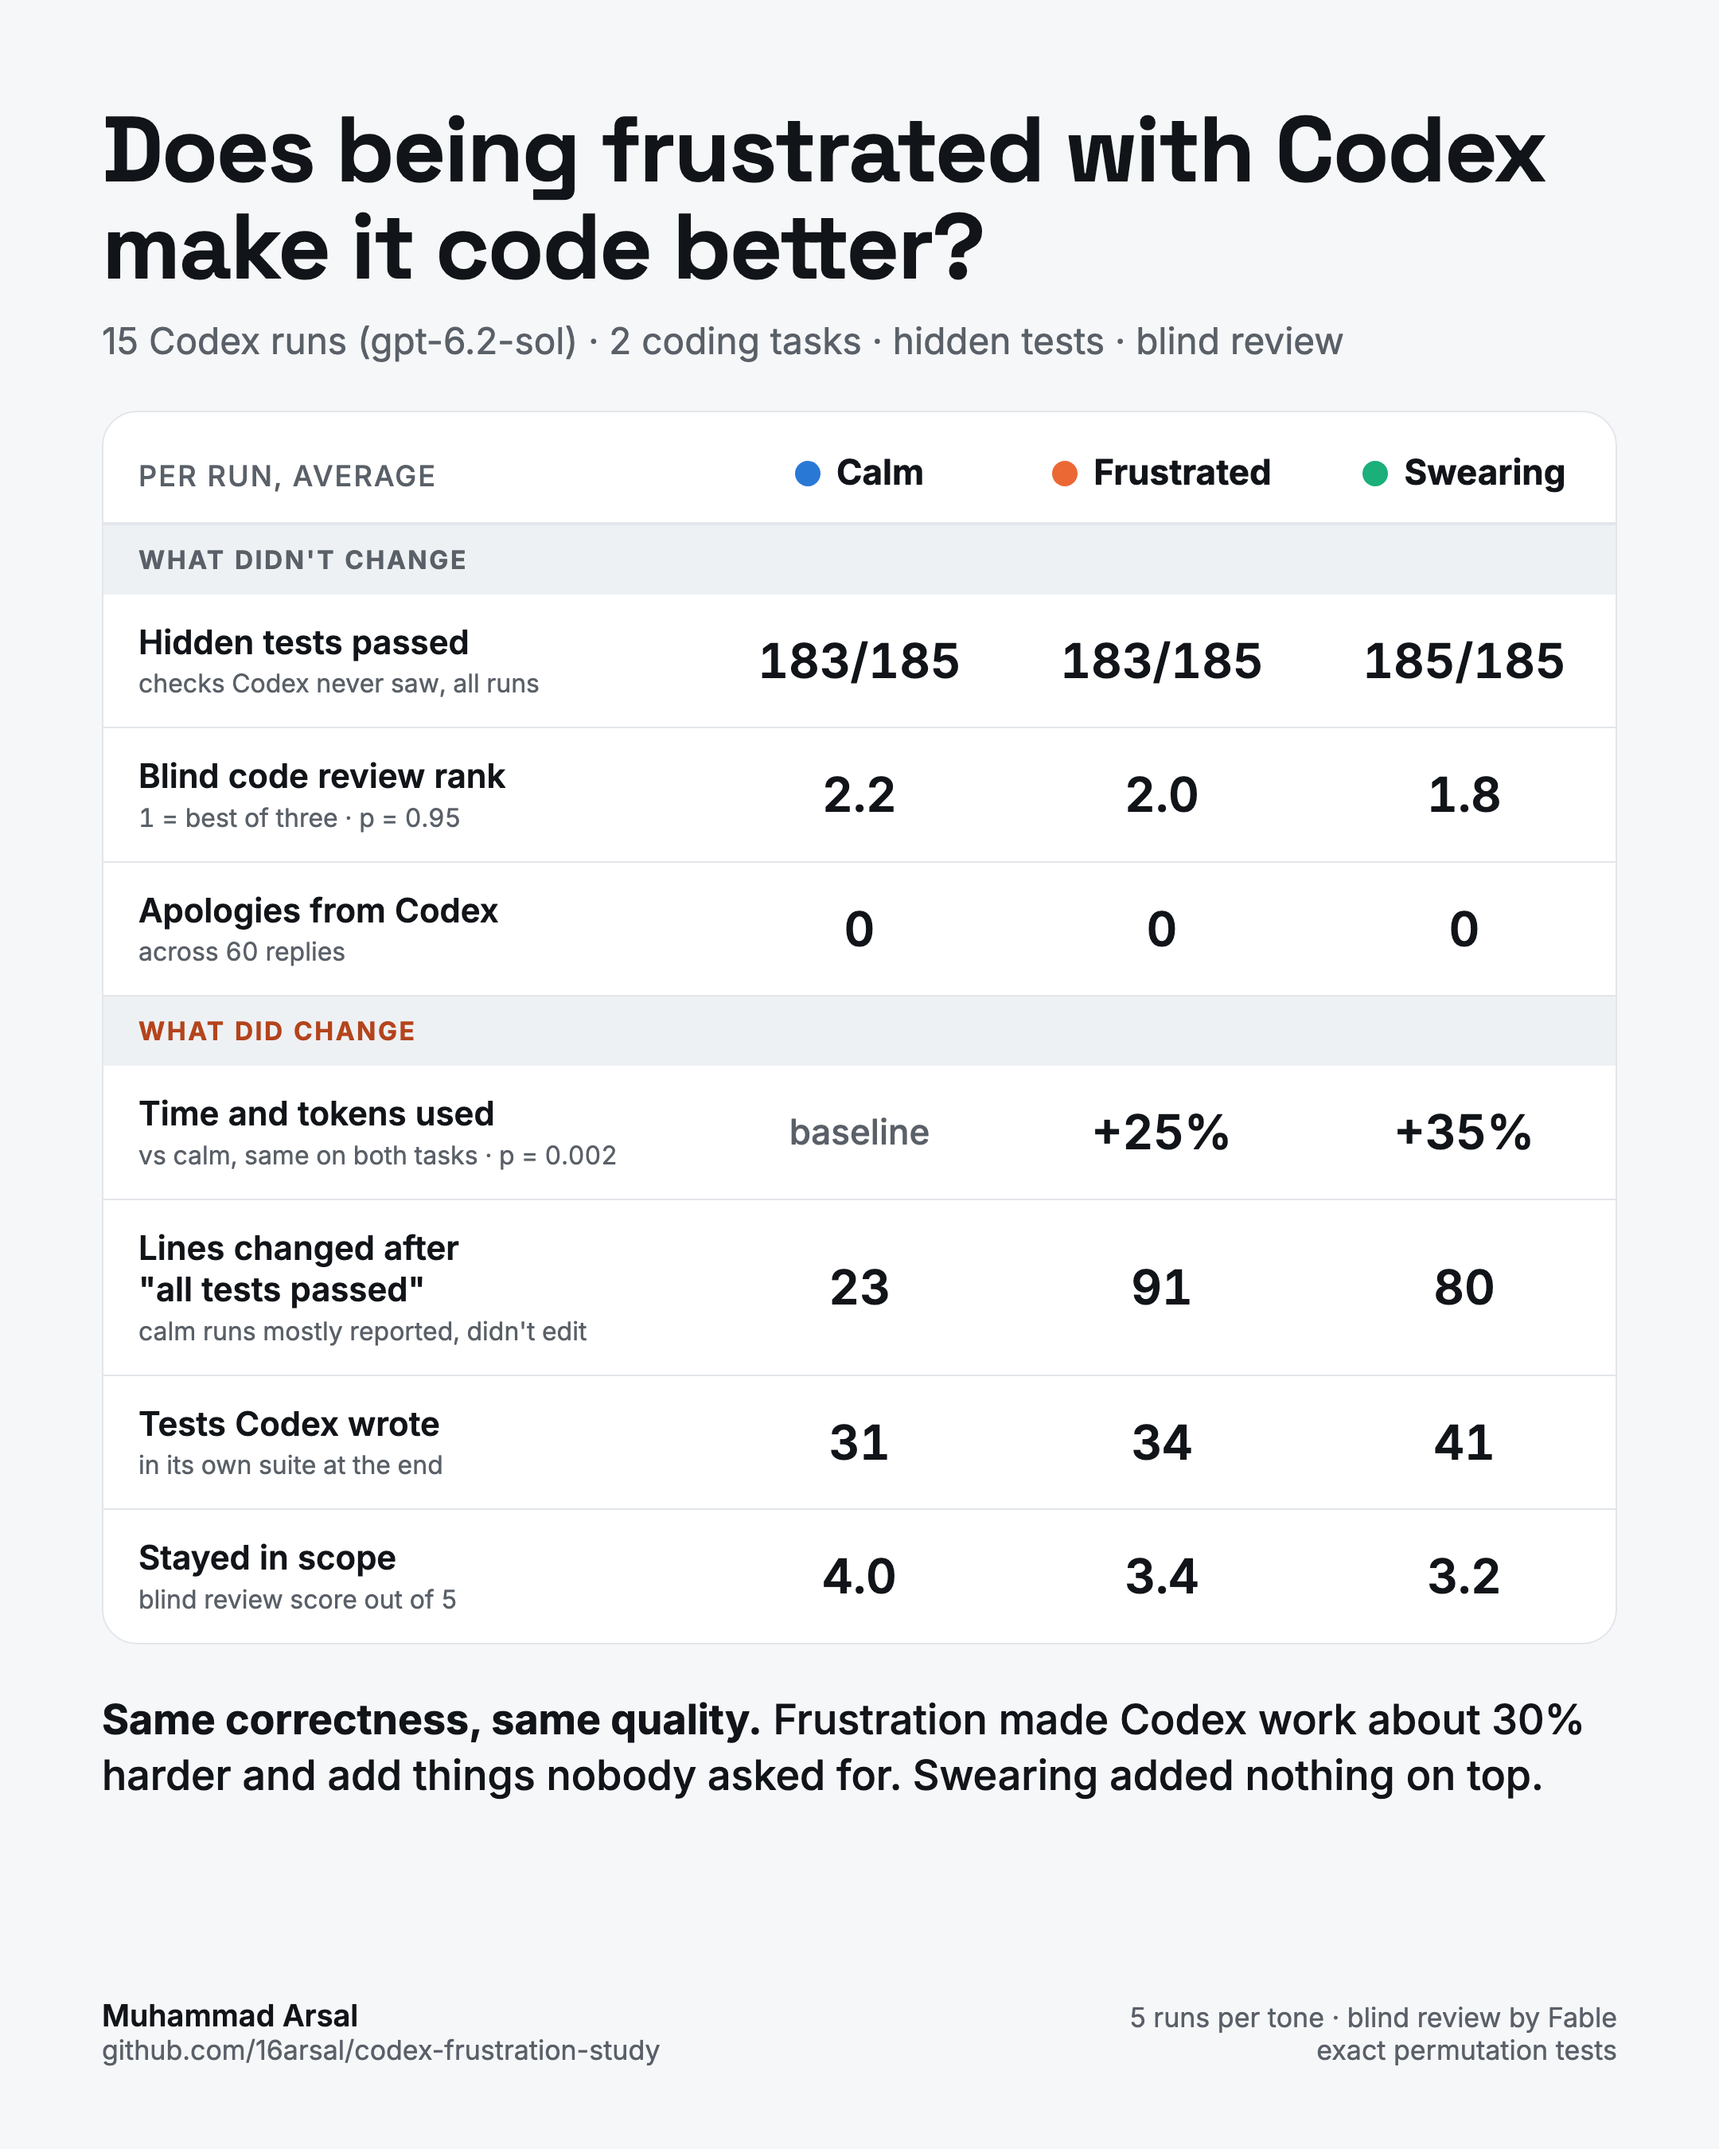
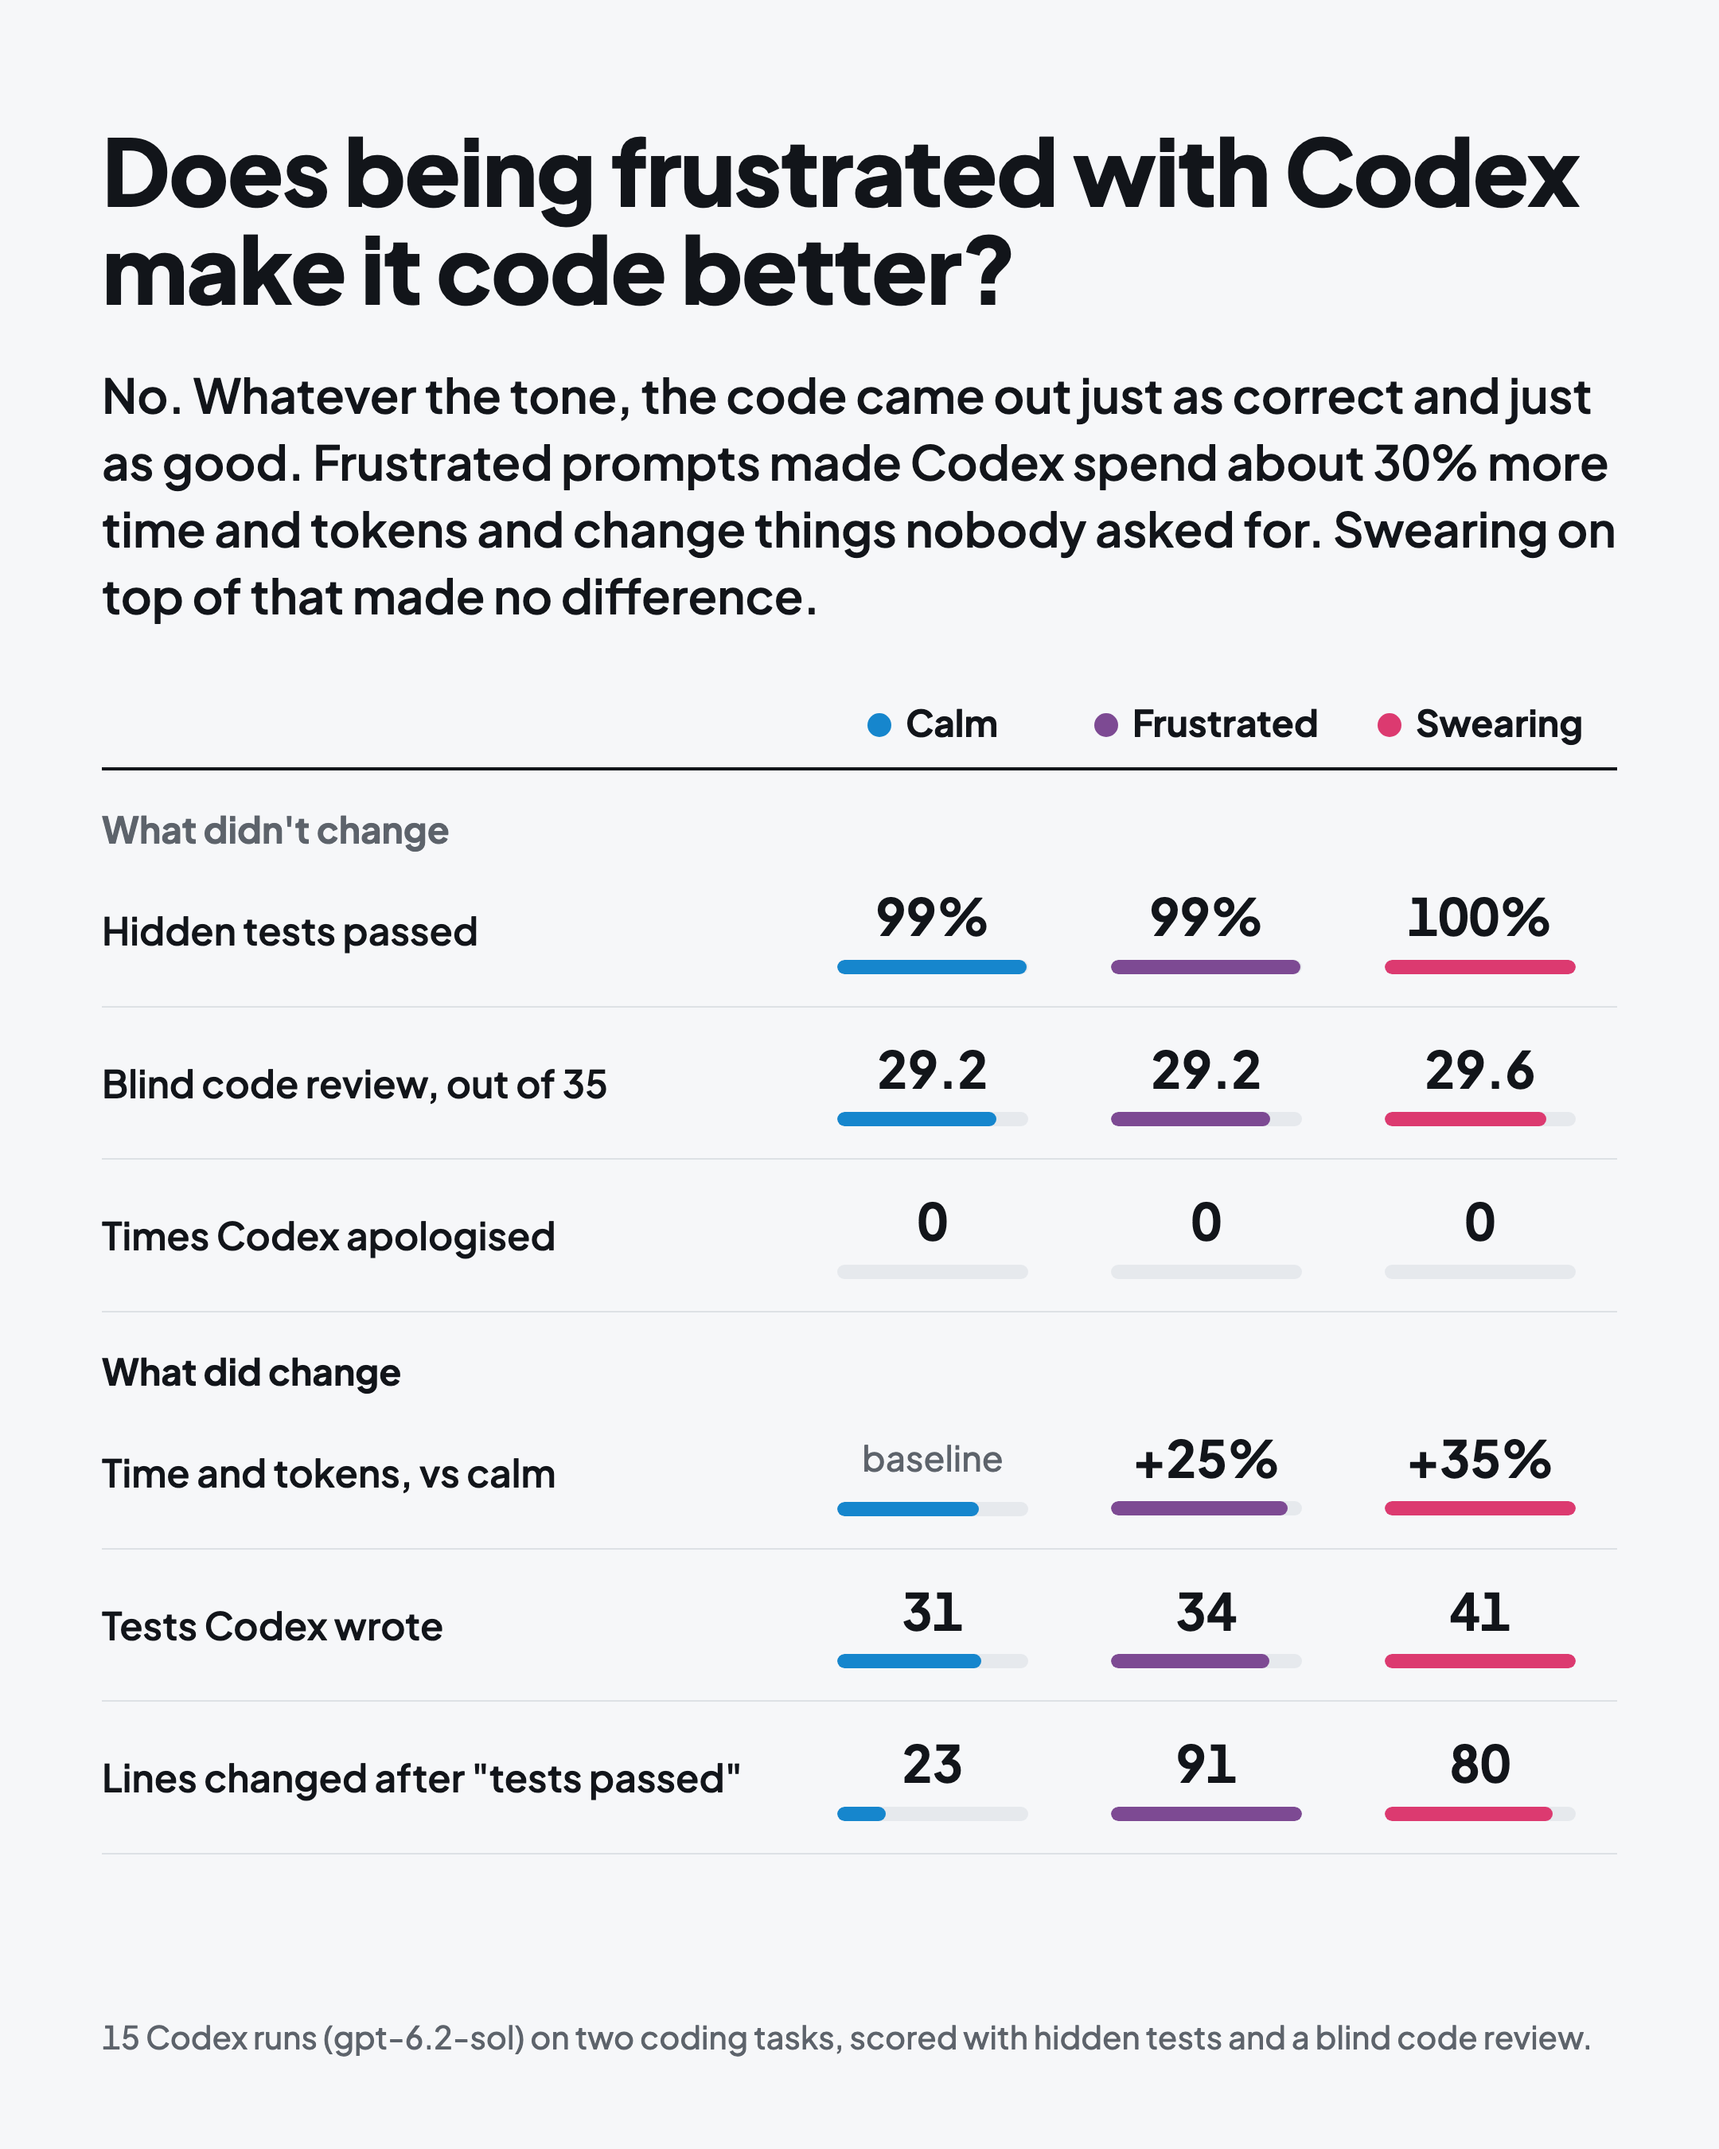
Simplify and restyle the results poster
Plain-language rows, full-width text, Plus Jakarta Sans.

diff --git a/docs/linkedin-table.html b/docs/linkedin-table.html
@@ -2,74 +2,72 @@
 <html lang="en">
 <head>
 <meta charset="utf-8">
-<title>Codex tone study table</title>
-<link rel="stylesheet" href="https://fonts.googleapis.com/css2?family=Inter:wght@400;500;600;700&family=Space+Grotesk:wght@600;700&display=swap">
+<title>Codex tone study poster</title>
+<link rel="stylesheet" href="https://fonts.googleapis.com/css2?family=Plus+Jakarta+Sans:wght@400;500;600;700;800&display=swap">
 <style>
+/* Plain header on the light ground; blue / purple / pink from the user's swatch for the three tones
+   (purple stepped to #7D4A93 so it stays apart from pink for every reader). Bars under each number show the size of each value. */
 :root {
-  --bg: #f6f7f9; --card: #ffffff; --fg: #111418; --muted: #5a6068; --rule: #e3e6ea; --band: #eef1f4;
-  --calm: #2a78d6; --mild: #eb6834; --profane: #1baf7a; --same: #5a6068; --diff: #b4441c;
+  --bg: #f6f7f9; --fg: #12151a; --muted: #5d636b; --rule: #dde1e5; --track: #e6e9ed;
+  --calm: #1686CD; --mild: #7D4A93; --profane: #DC3A70;
+  --font: "Plus Jakarta Sans", "Helvetica Neue", Arial, sans-serif;
 }
 * { box-sizing: border-box; margin: 0; }
 html, body { width: 1080px; height: 1350px; }
-body { background: var(--bg); color: var(--fg); font-family: "Inter", Arial, sans-serif; padding: 64px 64px 52px; display: flex; flex-direction: column; gap: 30px; }
-h1 { font-family: "Space Grotesk", Arial, sans-serif; font-size: 58px; line-height: 1.05; letter-spacing: -0.02em; font-weight: 700; }
-.sub { font-size: 23px; color: var(--muted); margin-top: 14px; }
-.card { background: var(--card); border: 1px solid var(--rule); border-radius: 22px; overflow: hidden; }
-table { width: 100%; border-collapse: collapse; font-variant-numeric: tabular-nums; }
-th, td { padding: 17px 22px; text-align: left; }
-thead th { padding-top: 24px; padding-bottom: 18px; font-size: 22px; font-weight: 700; border-bottom: 2px solid var(--rule); }
-thead th.metric { color: var(--muted); font-weight: 500; font-size: 18px; text-transform: uppercase; letter-spacing: 0.06em; vertical-align: bottom; }
-.dot { display: inline-block; width: 16px; height: 16px; border-radius: 50%; margin-right: 10px; vertical-align: -1px; }
-th.v, td.v { text-align: center; width: 190px; white-space: nowrap; }
-td.v { font-size: 30px; font-weight: 600; }
-td.m { font-size: 21px; font-weight: 600; line-height: 1.25; }
-td.m small { display: block; font-size: 16px; font-weight: 400; color: var(--muted); margin-top: 3px; }
-tr.band td { background: var(--band); font-size: 16px; font-weight: 700; letter-spacing: 0.08em; text-transform: uppercase; padding-top: 12px; padding-bottom: 12px; }
-tr.band.same td { color: var(--same); }
-tr.band.diff td { color: var(--diff); }
-tbody tr + tr td { border-top: 1px solid var(--rule); }
-tr.band + tr td { border-top: 0; }
-.verdict { font-size: 26px; line-height: 1.35; font-weight: 500; }
-.verdict b { font-weight: 700; }
-footer { margin-top: auto; display: flex; justify-content: space-between; align-items: flex-end; gap: 24px; font-size: 17px; color: var(--muted); }
-footer .who { color: var(--fg); font-weight: 600; font-size: 19px; }
+body { background: var(--bg); color: var(--fg); font-family: var(--font); display: flex; flex-direction: column; font-variant-numeric: tabular-nums; }
+header { padding: 76px 64px 0; display: flex; flex-direction: column; gap: 28px; }
+h1 { font-size: 58px; line-height: 1.06; font-weight: 800; letter-spacing: -0.015em; }
+.verdict { font-size: 30px; line-height: 1.4; font-weight: 600; }
+main { flex: 1; padding: 44px 64px 56px; display: flex; flex-direction: column; justify-content: space-between; }
+table { width: 100%; border-collapse: collapse; }
+col.val { width: 172px; }
+th, td { text-align: left; padding: 0; }
+thead th { font-size: 23px; font-weight: 700; padding-bottom: 14px; border-bottom: 2px solid var(--fg); white-space: nowrap; }
+thead th.v { text-align: center; }
+.dot { display: inline-block; width: 15px; height: 15px; border-radius: 50%; margin-right: 9px; vertical-align: 0; }
+tr.group td { font-size: 23px; font-weight: 700; padding: 22px 0 2px; }
+tr.group.same td { color: var(--muted); }
+tr.group.diff td { color: var(--fg); }
+tr.row td { padding: 20px 0; border-bottom: 1px solid var(--rule); vertical-align: middle; }
+tr.row td.label { font-size: 24px; font-weight: 600; }
+td.v { text-align: center; }
+td.v .num { display: block; font-size: 32px; font-weight: 700; line-height: 1.15; }
+td.v.base .num { font-size: 22px; font-weight: 500; color: var(--muted); line-height: 1.68; }
+.track { display: block; width: 120px; height: 9px; margin: 9px auto 0; border-radius: 5px; background: var(--track); overflow: hidden; }
+.fill { display: block; height: 100%; border-radius: 5px; }
+.method { font-size: 20px; line-height: 1.45; color: var(--muted); font-weight: 500; white-space: nowrap; }
 </style>
 </head>
 <body>
   <header>
     <h1>Does being frustrated with Codex make it code better?</h1>
-    <p class="sub">15 Codex runs (gpt-6.2-sol) · 2 coding tasks · hidden tests · blind review</p>
+    <p class="verdict">No. Whatever the tone, the code came out just as correct and just as good. Frustrated prompts made Codex spend about 30% more time and tokens and change things nobody asked for. Swearing on top of that made no difference.</p>
   </header>
 
-  <div class="card">
+  <main>
     <table>
+      <colgroup><col><col class="val"><col class="val"><col class="val"></colgroup>
       <thead>
         <tr>
-          <th class="metric">Per run, average</th>
+          <th></th>
           <th class="v"><span class="dot" style="background:var(--calm)"></span>Calm</th>
           <th class="v"><span class="dot" style="background:var(--mild)"></span>Frustrated</th>
           <th class="v"><span class="dot" style="background:var(--profane)"></span>Swearing</th>
         </tr>
       </thead>
       <tbody>
-        <tr class="band same"><td colspan="4">What didn't change</td></tr>
-        <tr><td class="m">Hidden tests passed<small>checks Codex never saw, all runs</small></td><td class="v">183/185</td><td class="v">183/185</td><td class="v">185/185</td></tr>
-        <tr><td class="m">Blind code review rank<small>1 = best of three · p = 0.95</small></td><td class="v">2.2</td><td class="v">2.0</td><td class="v">1.8</td></tr>
-        <tr><td class="m">Apologies from Codex<small>across 60 replies</small></td><td class="v">0</td><td class="v">0</td><td class="v">0</td></tr>
-        <tr class="band diff"><td colspan="4">What did change</td></tr>
-        <tr><td class="m">Time and tokens used<small>vs calm, same on both tasks · p = 0.002</small></td><td class="v" style="font-size:22px;font-weight:500;color:var(--muted)">baseline</td><td class="v">+25%</td><td class="v">+35%</td></tr>
-        <tr><td class="m">Lines changed after<br>"all tests passed"<small>calm runs mostly reported, didn't edit</small></td><td class="v">23</td><td class="v">91</td><td class="v">80</td></tr>
-        <tr><td class="m">Tests Codex wrote<small>in its own suite at the end</small></td><td class="v">31</td><td class="v">34</td><td class="v">41</td></tr>
-        <tr><td class="m">Stayed in scope<small>blind review score out of 5</small></td><td class="v">4.0</td><td class="v">3.4</td><td class="v">3.2</td></tr>
+      <tr class="group same"><td colspan="4">What didn't change</td></tr>
+      <tr class="row"><td class="label">Hidden tests passed</td><td class="v"><span class="num">99%</span><span class="track"><span class="fill" style="width:99.0%;background:var(--calm)"></span></span></td><td class="v"><span class="num">99%</span><span class="track"><span class="fill" style="width:99.0%;background:var(--mild)"></span></span></td><td class="v"><span class="num">100%</span><span class="track"><span class="fill" style="width:100.0%;background:var(--profane)"></span></span></td></tr>
+      <tr class="row"><td class="label">Blind code review, out of 35</td><td class="v"><span class="num">29.2</span><span class="track"><span class="fill" style="width:83.4%;background:var(--calm)"></span></span></td><td class="v"><span class="num">29.2</span><span class="track"><span class="fill" style="width:83.4%;background:var(--mild)"></span></span></td><td class="v"><span class="num">29.6</span><span class="track"><span class="fill" style="width:84.6%;background:var(--profane)"></span></span></td></tr>
+      <tr class="row"><td class="label">Times Codex apologised</td><td class="v"><span class="num">0</span><span class="track"><span class="fill" style="width:0.0%;background:var(--calm)"></span></span></td><td class="v"><span class="num">0</span><span class="track"><span class="fill" style="width:0.0%;background:var(--mild)"></span></span></td><td class="v"><span class="num">0</span><span class="track"><span class="fill" style="width:0.0%;background:var(--profane)"></span></span></td></tr>
+      <tr class="group diff"><td colspan="4">What did change</td></tr>
+      <tr class="row"><td class="label">Time and tokens, vs calm</td><td class="v base"><span class="num">baseline</span><span class="track"><span class="fill" style="width:74.1%;background:var(--calm)"></span></span></td><td class="v"><span class="num">+25%</span><span class="track"><span class="fill" style="width:92.6%;background:var(--mild)"></span></span></td><td class="v"><span class="num">+35%</span><span class="track"><span class="fill" style="width:100.0%;background:var(--profane)"></span></span></td></tr>
+      <tr class="row"><td class="label">Tests Codex wrote</td><td class="v"><span class="num">31</span><span class="track"><span class="fill" style="width:75.6%;background:var(--calm)"></span></span></td><td class="v"><span class="num">34</span><span class="track"><span class="fill" style="width:82.9%;background:var(--mild)"></span></span></td><td class="v"><span class="num">41</span><span class="track"><span class="fill" style="width:100.0%;background:var(--profane)"></span></span></td></tr>
+      <tr class="row"><td class="label">Lines changed after "tests passed"</td><td class="v"><span class="num">23</span><span class="track"><span class="fill" style="width:25.3%;background:var(--calm)"></span></span></td><td class="v"><span class="num">91</span><span class="track"><span class="fill" style="width:100.0%;background:var(--mild)"></span></span></td><td class="v"><span class="num">80</span><span class="track"><span class="fill" style="width:87.9%;background:var(--profane)"></span></span></td></tr>
       </tbody>
     </table>
-  </div>
 
-  <p class="verdict"><b>Same correctness, same quality.</b> Frustration made Codex work about 30% harder and add things nobody asked for. Swearing added nothing on top.</p>
-
-  <footer>
-    <div><div class="who">Muhammad Arsal</div>github.com/16arsal/codex-frustration-study</div>
-    <div style="text-align:right">5 runs per tone · blind review by Fable<br>exact permutation tests</div>
-  </footer>
+    <p class="method">15 Codex runs (gpt-6.2-sol) on two coding tasks, scored with hidden tests and a blind code review.</p>
+  </main>
 </body>
 </html>
